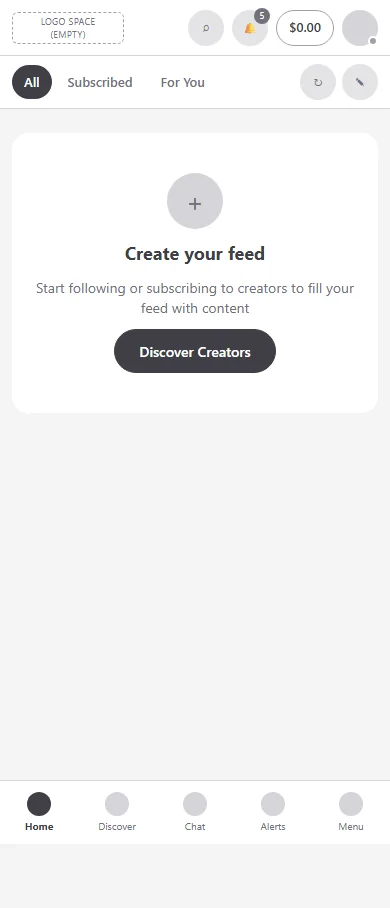
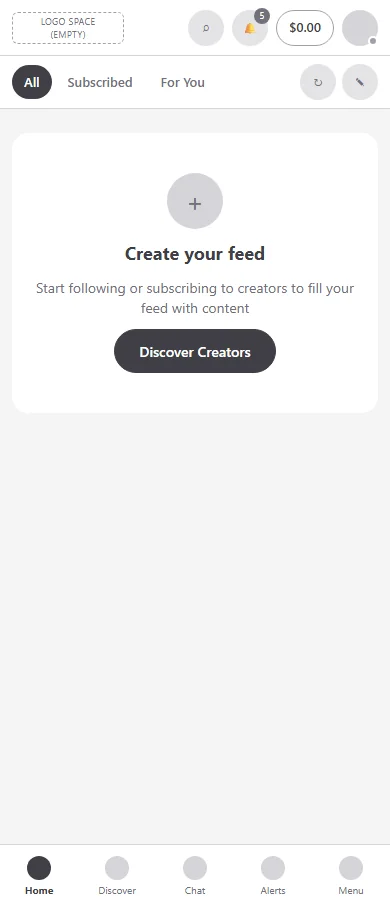
Wireframe overview pictures + rule: send pictures to owner every time
- frontend/scripts/wireframe-sheets.mjs: one picture per screen (all states x 4 sizes)
- phone bottom bar now at the bottom of full-page screenshots
- CLAUDE.md / design.md / code.md updated

diff --git a/wireframes/home.html b/wireframes/home.html
@@ -125,7 +125,7 @@
     .scard { height: 128px; }
   }
   /* screenshot mode: full-page capture can not show fixed/sticky bars correctly */
-  body.shot .bnav { position: sticky; }
+  body.shot .bnav { position: static; }
   body.shot .menu { height: auto; position: static; }
   body.shot .topbar, body.shot .rail { position: static; }
 </style>

diff --git a/CLAUDE.md b/CLAUDE.md
@@ -7,7 +7,7 @@
 3. Short, to-the-point replies.
 4. Test a few times only. Pass = done. If it keeps failing, stop and explain the error clearly.
 5. Always optimized. Use FFmpeg for every video / GIF / image (MP4 + WebM, AVIF / WebP, right sizes, metadata stripped).
-6. Wireframe first, owner's approval before any design is built.
+6. Wireframe first, owner's approval before any design is built. Every time a wireframe or screen is made or changed, SEND the owner the pictures in chat (overview images in `wireframes/sheets/`). The owner can not see files on disk - no pictures = not shown. (owner, 2026-10-27)
 7. Every screen size: desktop, laptop, tablet, phone. Images, layout, text and positions scale correctly.
 8. Update CLAUDE.md, design.md, code.md every task. Not updated = not done.
 9. Update the Excel task list every task (Not started -> Pending -> Done only when work really happens).
@@ -32,7 +32,7 @@ Details: `code.md` (how to run, structure, tests), `design.md` (screens, sizes, 
 
 ## Status (update every task)
 
-- 2026-10-27 Step 1 (B20 + F6 wireframes): project set up, start page + `/api/health` working, wireframes for register / verify email / home made at 4 sizes - **waiting for owner approval**. F5 (logo) waits for owner. Git remote `origin` = GitHub repo above; Excel task list now v61.
+- 2026-10-27 Step 1 (B20 + F6 wireframes): project set up, start page + `/api/health` working, wireframes for register / verify email / home made at 4 sizes - **waiting for owner approval**. F5 (logo) waits for owner. Git remote `origin` = GitHub repo above; Excel task list now v62. First approval message was withdrawn by the owner (no pictures had been shown); overview pictures sent 2026-10-27, waiting for approval.
 
 ## Working notes for Claude
 

diff --git a/code.md b/code.md
@@ -19,7 +19,8 @@ side lick new site/
     src/app/                           pages (layout.tsx, page.tsx, globals.css)
     src/components/                    LogoSlot (empty logo space), ApiStatus
     e2e/                               Playwright tests (4 screen sizes)
-    scripts/wireframe-shots.mjs        wireframe screenshots -> WebP
+    scripts/wireframe-shots.mjs        wireframe screenshots -> WebP (wireframes/shots/)
+    scripts/wireframe-sheets.mjs       one overview picture per screen (wireframes/sheets/)
   backend/                             NestJS app
     src/main.ts, src/env.ts            boot, loads backend/.env
     src/database/                      DatabaseModule + DatabaseService (pg pool)
@@ -71,3 +72,4 @@ npm run db:stop           # when finished
 
 - 2026-10-27 Step 1 (B20): scaffolded both apps, PostgreSQL 18.6 installed portable on D:, database `sidelick` created, health endpoint, start page with empty logo slot, Playwright at 4 sizes, wireframes, live/ sync script.
 - 2026-10-27 GitHub remote added (origin -> Cynicalfocus123/sidelick-), all commits pushed. `.env` files and the Excel are git-ignored, so they never go to GitHub.
+- 2026-10-27 Added wireframe overview pictures (`wireframes/sheets/`, script `wireframe-sheets.mjs`, runs after `wireframes:shots`). Phone bottom bar now shows at the bottom of full-page screenshots.

diff --git a/design.md b/design.md
@@ -9,7 +9,7 @@
 | Home /home (F1, F20-F29, F110, F111) + empty feed | `wireframes/home.html` | waiting | no |
 | Start page `/` (setup check only, not a real screen) | - | - | yes |
 
-Rule: no screen is built until its wireframe is approved (hard rule 6). Screenshots of every state at every size: `wireframes/index.html` (WebP, made by `npm --prefix frontend run wireframes:shots`).
+Rule: no screen is built until its wireframe is approved (hard rule 6). Screenshots of every state at every size: `wireframes/shots/` + `wireframes/index.html`; one overview picture per screen (all states x 4 sizes): `wireframes/sheets/<screen>.webp`. All made by `npm --prefix frontend run wireframes:shots` (WebP via FFmpeg). The sheets are what gets sent to the owner in chat every time.
 
 ## Logo
 
